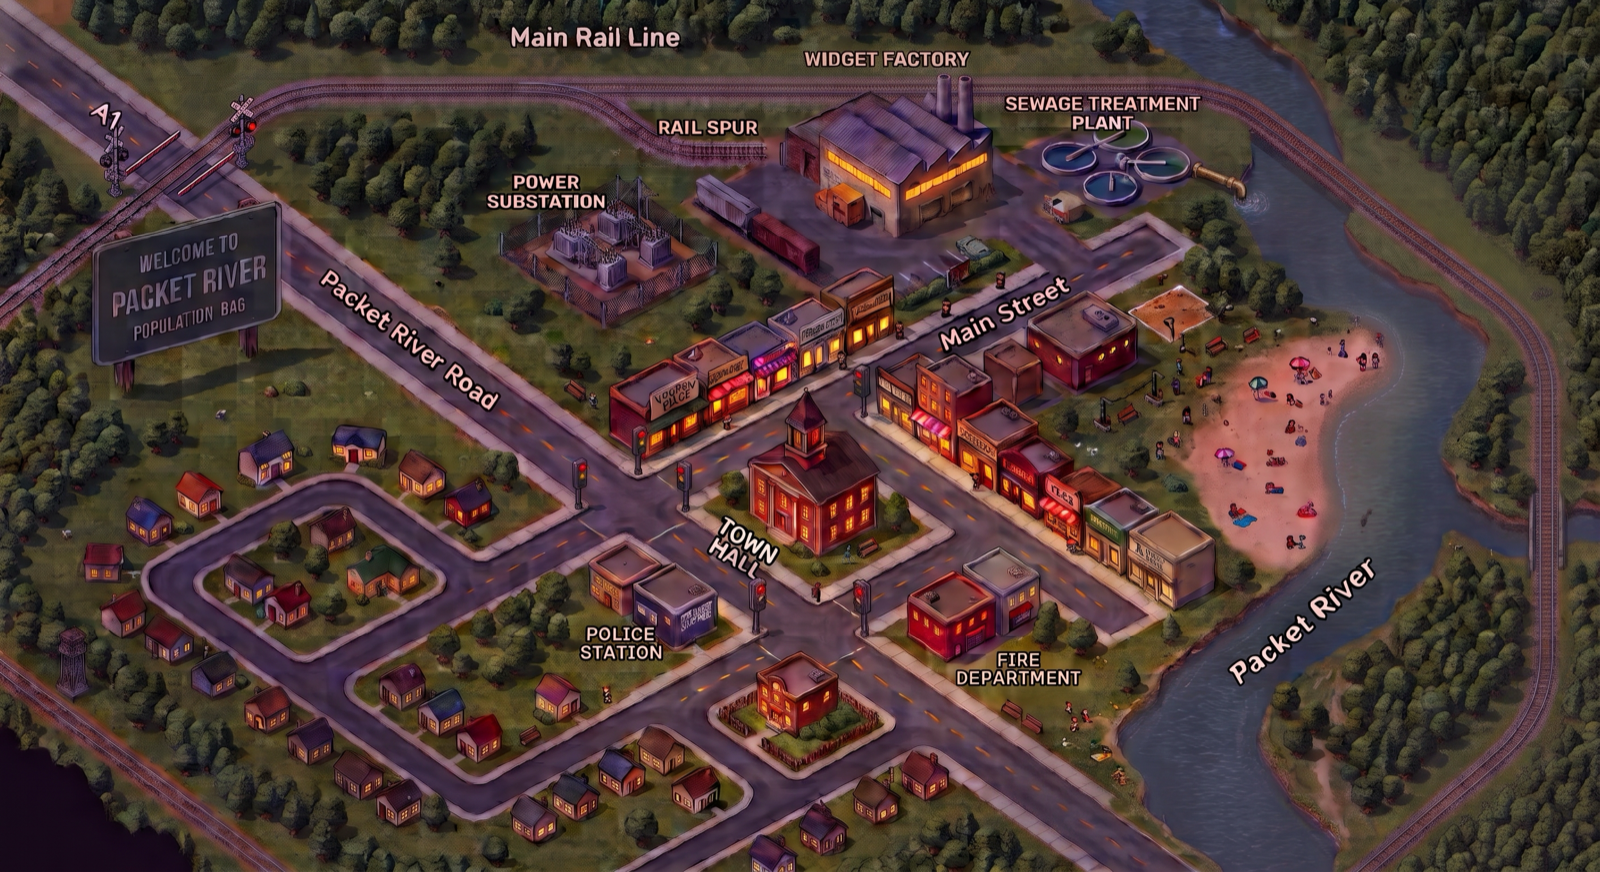
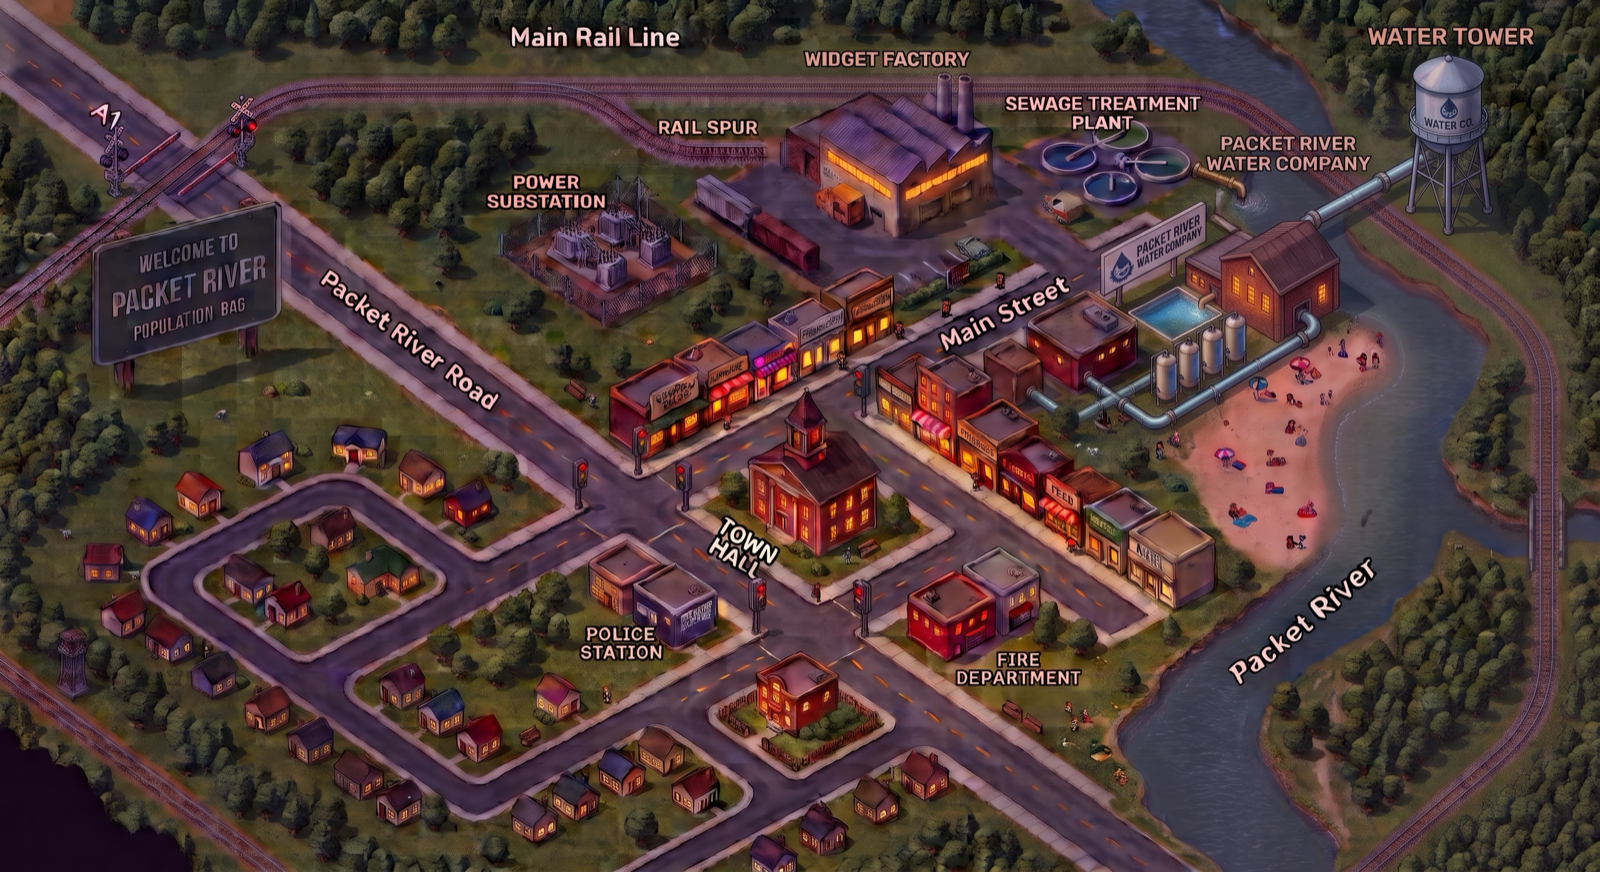
fix: base map gains the Packet River Water Company; drop the green outfall line
- basemap.png swapped for the version that includes the Packet River Water
  Company (brick building + treatment tanks, mid-right by the river) and the
  labelled Water Tower up top.
- overlay.json: the `water` hotspot moved onto the water company building;
  added a `watertower` set-dressing entry; `sewage` nudged left onto the actual
  clarifiers (the old spot is now the water company sign); the water-main flow
  line now originates from the water company.
- The outfall discharge line is hidden unless the sewage plant is running raw
  (it was drawn green in golden state, reading as a stray pixel line by the
  sewage plant).

Claude-Session: https://claude.ai/code/session_01N6PiHRP1WAG1Do2hEqPhVJ

diff --git a/simmap/web/app.js b/simmap/web/app.js
@@ -45,7 +45,7 @@ function buildOverlay(layout) {
   REFS.outfall = el("line", {
     x1: X(layout.outfall[0][0]), y1: Y(layout.outfall[0][1]),
     x2: X(layout.outfall[1][0]), y2: Y(layout.outfall[1][1]),
-    stroke: "#4aa35b", "stroke-width": 5 }, svg);
+    stroke: "#7d6a3c", "stroke-width": 5, opacity: 0 }, svg);
   REFS.swimmers = layout.swimmers.map(p =>
     el("circle", { cx: X(p[0]), cy: Y(p[1]), r: 4, class: "swimmer" }, svg));
 
@@ -162,7 +162,8 @@ function render(s) {
   if (s.water) REFS.waterMain.classList.toggle("stopped", s.water.quality === "dry");
   if (s.sewage) {
     REFS.river.classList.toggle("foul", s.sewage.river_contamination > 0.4);
-    REFS.outfall.setAttribute("stroke", s.sewage.effluent_path === "raw" ? "#7d6a3c" : "#4aa35b");
+    // only draw the outfall discharge when it's running raw
+    REFS.outfall.setAttribute("opacity", s.sewage.effluent_path === "raw" ? "0.9" : "0");
     REFS.swimmers.forEach(sw => sw.classList.toggle("sick", s.sewage.swimmers_sick));
   }
   if (s.power) {
